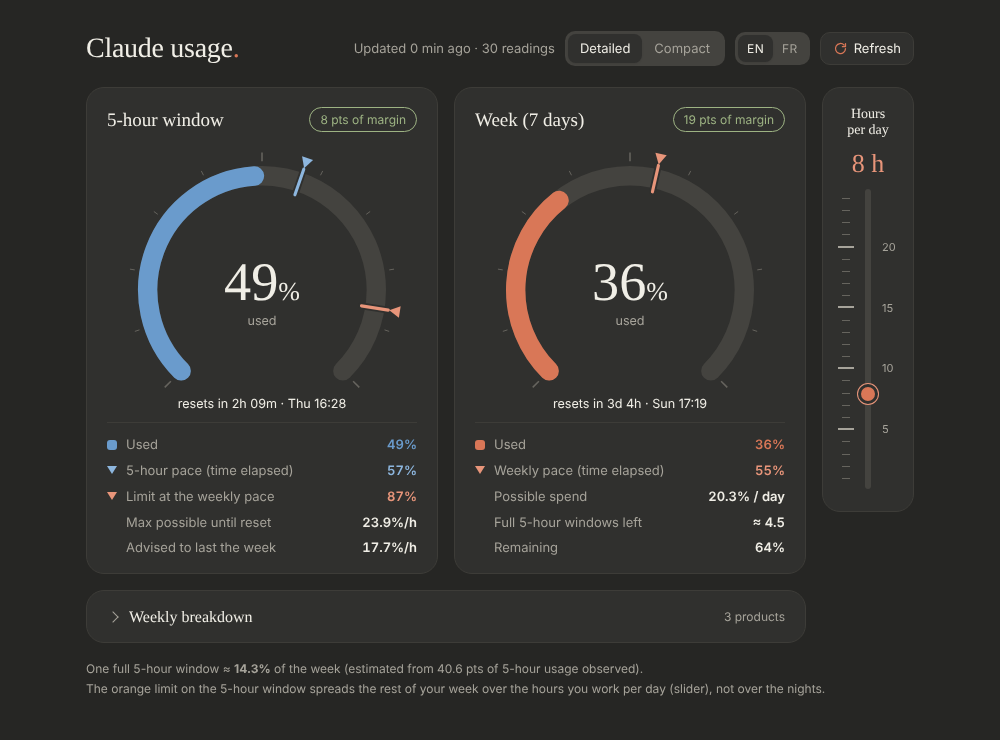
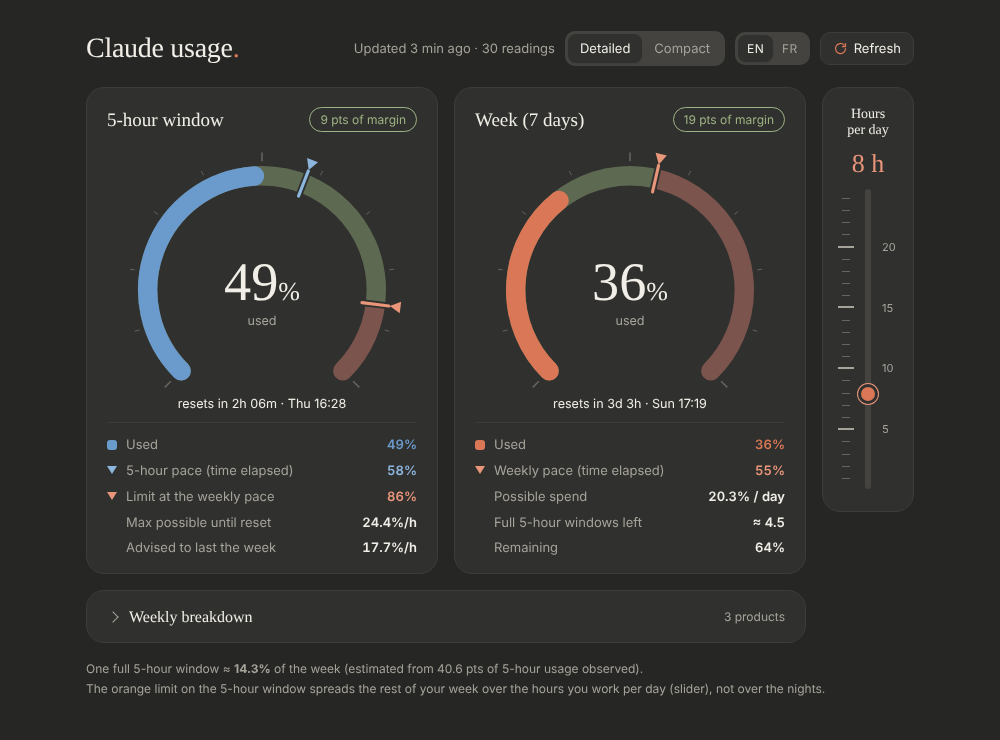
Show green/red speedometer zones on the gauge rings instead of bars
The unfilled part of each ring is green up to the limit marker (5-hour
limit at weekly pace / weekly pace) and red beyond it. Remove the bars
under the compact stats.

Claude-Session: https://claude.ai/code/session_01F8m832QxDmb2GnzwzbQV6q

diff --git a/web/js/views.js b/web/js/views.js
@@ -18,22 +18,6 @@ window.CU = window.CU || {};
     : t("reset.none");
   const budgetText = b => b >= 100 ? t("cap") : pct(b);
 
-  /* Speedometer-style bar. Zones: green up to `limit`, red beyond. The strong fill is the measured `value`;
-     the paler part is the zone still available. Returns "" when there is nothing sensible to draw. */
-  function meter(value, limit, caption) {
-    if (!(limit > 0) || !isFinite(limit)) return "";
-    const v = value == null || !isFinite(value) ? null : Math.max(0, value);
-    const scale = Math.max(limit * 1.6, (v || 0) * 1.08);
-    const p = x => (Math.min(x, scale) / scale * 100).toFixed(2);
-    const over = v != null && v > limit;
-    const fill = v == null ? "" : `<i class="f ok" style="width:${p(Math.min(v, limit))}%"></i>`
-      + (over ? `<i class="f bad" style="left:${p(limit)}%;width:${(p(v) - p(limit)).toFixed(2)}%"></i>` : "");
-    return `<div class="meter${over ? " is-over" : ""}" role="img" aria-label="${caption}">
-        <span class="zone ok" style="width:${p(limit)}%"></span><span class="zone bad" style="left:${p(limit)}%"></span>
-        ${fill}<u style="left:${p(limit)}%"></u>
-      </div><small class="mcap">${caption}</small>`;
-  }
-
   /* ---------------- detailed view: two cards ---------------- */
   function detail(m) {
     const { five, seven } = m;
@@ -42,7 +26,7 @@ window.CU = window.CU || {};
         <div class="card-head"><h2>${t("card.five")}</h2>${pill(CU.status(five.used, five.pace))}</div>
         ${CU.gauge({
           label: t("card.five"),
-          rings: [{ r: 118, width: 20, used: five.used, color: BLUE,
+          rings: [{ r: 118, width: 20, used: five.used, color: BLUE, limit: five.active ? five.budget : null,
                     markers: [{ v: five.pace, color: BLUE_INK }, { v: five.budget, color: CLAY_INK }] }],
           center: [{ dy: 10, text: big(five.used), size: 56, serif: true },
                    { dy: 36, text: t("gauge.used"), size: 13, fill: "var(--muted)" }],
@@ -62,7 +46,7 @@ window.CU = window.CU || {};
         <div class="card-head"><h2>${t("card.seven")}</h2>${pill(CU.status(seven.used, seven.pace))}</div>
         ${CU.gauge({
           label: t("card.seven"),
-          rings: [{ r: 118, width: 20, used: seven.used, color: CLAY, markers: [{ v: seven.pace, color: CLAY_INK }] }],
+          rings: [{ r: 118, width: 20, used: seven.used, color: CLAY, limit: seven.pace, markers: [{ v: seven.pace, color: CLAY_INK }] }],
           center: [{ dy: 10, text: big(seven.used), size: 56, serif: true },
                    { dy: 36, text: t("gauge.used"), size: 13, fill: "var(--muted)" }],
           footer: resetText(seven),
@@ -85,8 +69,8 @@ window.CU = window.CU || {};
     const svg = CU.gauge({
       label: t("gauge.aria.compact"),
       rings: [
-        { r: 126, width: 16, used: seven.used, color: CLAY, markers: [{ v: seven.pace, color: CLAY_INK, side: "out" }] },
-        { r: 92, width: 16, used: five.used, color: BLUE,
+        { r: 126, width: 16, used: seven.used, color: CLAY, limit: seven.pace, markers: [{ v: seven.pace, color: CLAY_INK, side: "out" }] },
+        { r: 92, width: 16, used: five.used, color: BLUE, limit: five.active ? five.budget : null,
           markers: [{ v: five.pace, color: BLUE_INK, side: "in" }, { v: five.budget, color: CLAY_INK, side: "out" }] },
       ],
       center: [
@@ -112,12 +96,9 @@ window.CU = window.CU || {};
           ${li("tri", CLAY_INK, t("compact.legend.pace7"), pct(seven.pace))}
         </ul>
         <div class="stats">
-          <div><b>${pct(five.paceRate, 1)}</b><span>${t("stat.rate")}</span>
-            ${meter(five.currentRate, five.paceRate, t("meter.now", { v: five.currentRate == null ? "—" : pct(five.currentRate, 1) + t("unit.perhour") }))}</div>
-          <div><b>${pct(seven.ratePerDay, 1)}</b><span>${t("stat.day")}</span>
-            ${meter(seven.usedLast24h, seven.ratePerDay, t("meter.day", { v: seven.usedLast24h == null ? "—" : pct(seven.usedLast24h, 1) }))}</div>
-          <div><b>≈ ${num(seven.sessionsLeft)}</b><span>${t("stat.windows")}</span>
-            ${meter(seven.plannedWindows, seven.sessionsLeft, t("meter.planned", { v: "≈ " + num(seven.plannedWindows) }))}</div>
+          <div><b>${pct(five.paceRate, 1)}</b><span>${t("stat.rate")}</span></div>
+          <div><b>${pct(seven.ratePerDay, 1)}</b><span>${t("stat.day")}</span></div>
+          <div><b>≈ ${num(seven.sessionsLeft)}</b><span>${t("stat.windows")}</span></div>
         </div>
       </section>`;
   }

diff --git a/web/js/gauge.js b/web/js/gauge.js
@@ -1,6 +1,6 @@
 /* gauge.js: SVG drawing of the gauges (270 degree arc, from bottom-left to bottom-right).
    CU.gauge({ rings, center, footer, label }) -> SVG string.
-     rings  : [{ r, width, used, color, markers: [{ v, color, side: "out" | "in" }] }]  (the first one is the outermost)
+     rings  : [{ r, width, used, color, limit (optional: green up to it, red beyond), markers: [{ v, color, side: "out" | "in" }] }]  (the first one is the outermost)
      center : [{ dy, text, size, fill, serif }]  centered text lines (dy relative to the center)
      footer : text under the arc */
 window.CU = window.CU || {};
@@ -42,12 +42,31 @@ window.CU = window.CU || {};
       + `<polygon points="${f(tip[0])},${f(tip[1])} ${f(base[0] + 6 * px)},${f(base[1] + 6 * py)} ${f(base[0] - 6 * px)},${f(base[1] - 6 * py)}" fill="${m.color}"/>`;
   }
 
+  let uid = 0;
+  /* Speedometer zones on the unfilled track: green up to `limit`, red beyond it. Masked by the track shape so the
+     ends stay round. */
+  function zones(ring) {
+    const lim = ring.limit;
+    if (lim == null || !isFinite(lim)) return "";
+    const id = "zm" + (++uid), L = clamp(lim);
+    const track = `<path d="${arc(0, 100, ring.r)}" fill="none" stroke="#fff" stroke-width="${ring.width}" stroke-linecap="round"/>`;
+    // red everywhere (round caps cover the ring end), then green over it up to the limit (+ a dot for the round start)
+    const [x0, y0] = pt(0, ring.r);
+    let s = `<mask id="${id}">${track}</mask><g mask="url(#${id})" opacity=".34">`;
+    s += `<path d="${arc(0, 100, ring.r)}" fill="none" stroke="var(--bad)" stroke-width="${ring.width + 2}" stroke-linecap="round"/>`;
+    if (L >= 100) s += `<path d="${arc(0, 100, ring.r)}" fill="none" stroke="var(--ok)" stroke-width="${ring.width + 2}" stroke-linecap="round"/>`;
+    else if (L > 0) s += `<path d="${arc(0, L, ring.r)}" fill="none" stroke="var(--ok)" stroke-width="${ring.width + 2}"/>`
+      + `<circle cx="${f(x0)}" cy="${f(y0)}" r="${ring.width / 2 + 1}" fill="var(--ok)"/>`;
+    return s + `</g>`;
+  }
+
   CU.gauge = function ({ rings, center = [], footer = "", label = "" }) {
     const outer = rings[0];
     let s = `<svg class="gauge" viewBox="0 0 320 290" role="img" aria-label="${label}">`;
     s += ticks(outer.r + outer.width / 2 + 5);
     for (const ring of rings) {
       s += `<path d="${arc(0, 100, ring.r)}" fill="none" stroke="var(--track)" stroke-width="${ring.width}" stroke-linecap="round"/>`;
+      s += zones(ring);
       if (ring.used > 0.3)
         s += `<path d="${arc(0, clamp(ring.used), ring.r)}" fill="none" stroke="${ring.color}" stroke-width="${ring.width}" stroke-linecap="round"/>`;
     }

diff --git a/web/js/model.js b/web/js/model.js
@@ -18,28 +18,6 @@ window.CU = window.CU || {};
     };
   }
 
-  /* Positive increments only: a drop is a window reset, not negative consumption. Returns null without enough data. */
-  function increments(history, key, span, now) {
-    const pts = (history || []).map(r => ({ t: Date.parse(r.t), v: r[key] })).filter(p => p.t >= now - span && p.t <= now && p.v != null);
-    if (pts.length < 2) return null;
-    let sum = 0;
-    for (let i = 1; i < pts.length; i++) sum += Math.max(0, pts[i].v - pts[i - 1].v);
-    return { sum, hours: (pts[pts.length - 1].t - pts[0].t) / H };
-  }
-  function recentRate(history, key, span, now, win5) {
-    const inc = increments(history, key, span, now);
-    if (inc && inc.hours > 0.05) return inc.sum / inc.hours;
-    if (win5) {                                       // too few readings: average since the window opened
-      const elapsed = (FIVE_H - win5.left) / H;
-      if (elapsed > 0.1) return win5.used / elapsed;
-    }
-    return null;
-  }
-  function recentUsed(history, key, span, now) {
-    const inc = increments(history, key, span, now);
-    return inc ? inc.sum : null;
-  }
-
   CU.compute = function (D, now = Date.now(), opts = {}) {
     if (!D || !D.seven_day) return null;
     const ratio = D.ratio_estimate || D.ratio_default;   // % of the week one full 5-hour window costs
@@ -61,10 +39,6 @@ window.CU = window.CU || {};
     five.maxRate = (100 - five.used) / (five.left / H);      // 5h-% per hour to end exactly at the reset
     five.paceRate = seven.ratePerHour * 100 / ratio;          // 5h-% per hour at the weekly pace
 
-    seven.activeHoursLeft = activeHoursLeft;
-    five.currentRate = recentRate(D.history, "h5", H, now, five.active ? five : null);   // 5h-% per hour, last hour
-    seven.usedLast24h = recentUsed(D.history, "d7", 24 * H, now);                       // weekly % consumed over 24 h
-    seven.plannedWindows = activeHoursLeft / 5;                                           // 5-hour windows you plan to work
 
     const fetched = D.fetched_at ? Date.parse(D.fetched_at) : null;
     return {

diff --git a/web/js/i18n.js b/web/js/i18n.js
@@ -68,9 +68,6 @@ window.CU = window.CU || {};
       "foot.estimated": "(estimated from {pts} pts of 5-hour usage observed).",
       "foot.default": "(default assumption, refined once there is enough history).",
       "foot.limit": "The orange limit on the 5-hour window spreads the rest of your week over the hours you work per day (slider), not over the nights.",
-      "meter.now": "now {v}",
-      "meter.day": "last 24 h: {v}",
-      "meter.planned": "planned: {v}",
       "hours.title": "Hours per day",
       "hours.aria": "Hours of Claude use per day",
       "hours.value": "{n} h",
@@ -139,9 +136,6 @@ window.CU = window.CU || {};
       "foot.estimated": "(estimé sur {pts} pts de 5 h observés).",
       "foot.default": "(hypothèse par défaut, affinée dès que l'historique suffit).",
       "foot.limit": "La limite orange de la fenêtre 5 h répartit le reste de ta semaine sur les heures que tu travailles par jour (curseur), pas sur les nuits.",
-      "meter.now": "actuel {v}",
-      "meter.day": "24 dernières h : {v}",
-      "meter.planned": "prévu : {v}",
       "hours.title": "Heures par jour",
       "hours.aria": "Heures d'utilisation de Claude par jour",
       "hours.value": "{n} h",

diff --git a/web/css/style.css b/web/css/style.css
@@ -136,14 +136,3 @@ svg.gauge { width: 100%; max-width: 330px; display: block; margin: 4px auto 0; }
 .empty { padding: 40px 20px; text-align: center; color: var(--muted); }
 .empty code { background: var(--track); padding: 2px 6px; border-radius: 5px; color: var(--text); }
 
-/* ---------- speedometer-style meters under the compact stats ---------- */
-.meter { position: relative; height: 8px; border-radius: 4px; overflow: hidden; margin: 8px 4px 0; background: var(--track); }
-.meter .zone { position: absolute; top: 0; bottom: 0; opacity: .28; }
-.meter .zone.ok { left: 0; background: var(--ok); }
-.meter .zone.bad { right: 0; background: var(--bad); }
-.meter .f { position: absolute; top: 0; bottom: 0; left: 0; }
-.meter .f.ok { background: var(--ok); }
-.meter .f.bad { background: var(--bad); }
-.meter u { position: absolute; top: -1px; bottom: -1px; width: 2px; margin-left: -1px; background: var(--text); opacity: .55; }
-.mcap { display: block; margin-top: 4px; font-size: 11px; color: var(--muted); }
-.meter.is-over + .mcap { color: var(--bad); }
